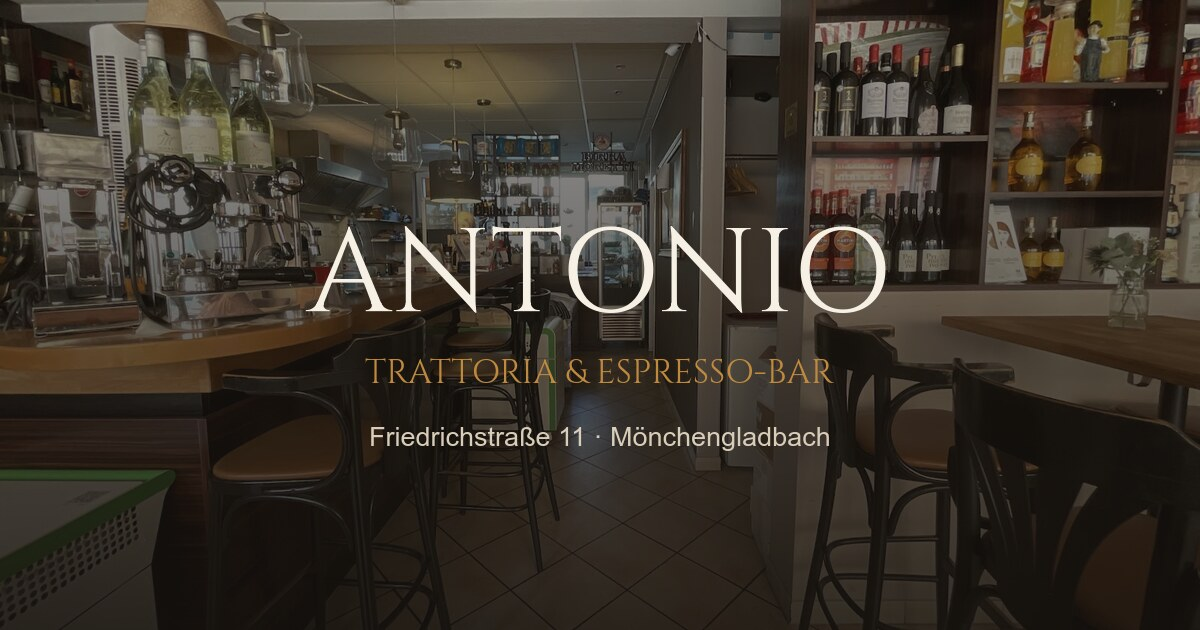
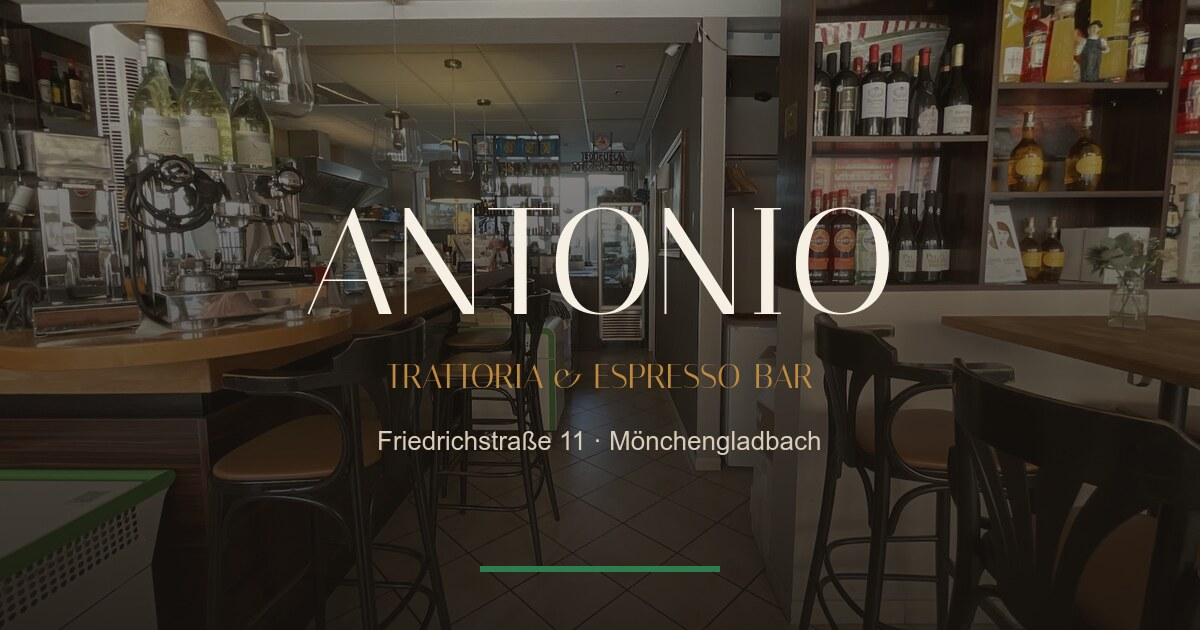
Italianita-Redesign: Italiana statt Cinzel, Verde als 2. Akzent, Tricolore-Details (Feedback Suat)

diff --git a/css/site.css b/css/site.css
@@ -1,10 +1,10 @@
 /* ANTONIO - Trattoria & Espresso-Bar, Mönchengladbach. Redesign-Entwurf.
-   Design-System: Tafel-Schwarzbraun + Marken-Rot + Gold auf hellem Tageslicht-Grund.
-   Schriften: Cinzel (Kapitalis, wie die Fassaden-Wortmarke) + Inter (Body). */
+   Design-System: Tafel-Schwarzbraun + Tricolore (Marken-Rot, Basilikum-Gruen, Weiss) + Gold.
+   Schriften: Italiana (elegante italienische Display-Antiqua, nur Schnitt 400) + Inter (Body). */
 
 @font-face{
-  font-family:'Cinzel';font-style:normal;font-weight:400 900;font-display:swap;
-  src:url('../font/cinzel.woff2') format('woff2');
+  font-family:'Italiana';font-style:normal;font-weight:400;font-display:swap;
+  src:url('../font/italiana.woff2') format('woff2');
 }
 @font-face{
   font-family:'Inter';font-style:normal;font-weight:100 900;font-display:swap;
@@ -15,17 +15,19 @@
   --tafel:#1e1b17;      /* Kreidetafel-Grund: Hero-Overlay, dunkle Sektionen, Footer */
   --tafel-2:#292420;    /* dunkle Karte / Tafel-Board */
   --tafel-3:#332d27;    /* dunkle Karte 2 */
-  --rosso:#a02c2c;      /* AKZENT Marken-Rot (Wortmarke an der Fassade) */
-  --rosso-d:#7e2222;    /* Akzent dunkler (Hover) */
+  --rosso:#a72a2a;      /* AKZENT Marken-Rot (Wortmarke an der Fassade) */
+  --rosso-d:#832020;    /* Akzent dunkler (Hover) */
+  --verde:#2e7d4f;      /* AKZENT 2 Basilikum-Gruen (Tafel-Ueberschrift, Serviette) */
+  --verde-d:#245f3d;    /* Gruen dunkler (Hover) */
   --oro:#c08a3e;        /* Gold der Fenster-Kapitalis: Sekundaerakzent auf dunkel */
   --oro-h:#d9a95c;      /* Gold hell (Hover auf dunkel) */
   --kreide:#ece5d4;     /* Kreide-Ton auf der Tafel */
-  --latte:#f1e9da;      /* Sektions-BG warm */
-  --milk:#faf7f0;       /* Grund-BG: helles Tageslicht */
-  --white:#fffefb;
-  --ink:#26211b;        /* Fliesstext auf hell */
-  --muted:#857a6a;      /* gedaempft */
-  --line:#e6ddcb;       /* Haarlinie */
+  --latte:#f3efe4;      /* Sektions-BG warm-hell */
+  --milk:#fcfbf6;       /* Grund-BG: helles Tageslicht, fast weiss */
+  --white:#ffffff;
+  --ink:#25211c;        /* Fliesstext auf hell */
+  --muted:#837a6d;      /* gedaempft */
+  --line:#e7e0d1;       /* Haarlinie */
   --wrap:1200px;
   --ease:cubic-bezier(.22,1,.36,1);
   --nav-h:76px;
@@ -48,7 +50,19 @@ a{color:var(--rosso)}
 .skip{position:absolute;left:-9999px;top:0;background:var(--tafel);color:#fff;padding:10px 16px;z-index:200}
 .skip:focus{left:0}
 
-h1,h2,h3{font-family:'Cinzel',serif;font-weight:600;letter-spacing:.02em;line-height:1.12;margin:0}
+/* Tricolore: schmaler Streifen am oberen Seitenrand + Akzent-Bar unter Sektionskoepfen */
+body::before{
+  content:"";position:fixed;top:0;left:0;right:0;height:3px;z-index:140;pointer-events:none;
+  background:linear-gradient(90deg,var(--verde) 0 33.4%,#f3efe0 33.4% 66.7%,var(--rosso) 66.7% 100%);
+}
+.tri{
+  display:block;width:46px;height:4px;margin-top:16px;
+  background:linear-gradient(90deg,var(--verde) 0 33.4%,#fff 33.4% 66.7%,var(--rosso) 66.7% 100%);
+  box-shadow:0 0 0 1px rgba(0,0,0,.06);
+}
+.shead.center .tri{margin-left:auto;margin-right:auto}
+
+h1,h2,h3{font-family:'Italiana',serif;font-weight:400;letter-spacing:.03em;line-height:1.12;margin:0}
 h1 em,h2 em,h3 em{font-style:normal;color:var(--rosso)}
 .on-dark h2 em,.on-dark h3 em{color:var(--oro)}
 p{margin:0 0 1em}
@@ -56,7 +70,7 @@ p{margin:0 0 1em}
 .muted{color:var(--muted)}
 .eyebrow{
   display:inline-block;font-family:'Inter';font-size:12.5px;font-weight:600;
-  letter-spacing:.22em;text-transform:uppercase;color:var(--rosso);
+  letter-spacing:.22em;text-transform:uppercase;color:var(--verde);
 }
 
 /* ---------- Buttons (radius 0, Ghost ueber dunklem Grund) ---------- */
@@ -87,7 +101,7 @@ p{margin:0 0 1em}
 .nav .wrap{display:flex;align-items:center;justify-content:space-between;width:100%}
 .brand{display:flex;align-items:baseline;gap:10px;text-decoration:none}
 .brand b{
-  font-family:'Cinzel',serif;font-weight:700;font-size:23px;letter-spacing:.10em;
+  font-family:'Italiana',serif;font-weight:400;font-size:25px;letter-spacing:.12em;
   color:#fff;transition:color .35s var(--ease);
 }
 .brand b em{font-style:normal;color:var(--oro)}
@@ -147,7 +161,7 @@ p{margin:0 0 1em}
 .mmenu__links{display:flex;flex-direction:column;gap:4px;margin:auto 0 26px}
 .mmenu__links a{
   display:flex;align-items:baseline;gap:16px;text-decoration:none;
-  font-family:'Cinzel',serif;font-weight:600;font-size:clamp(22px,5.6vw,27px);
+  font-family:'Italiana',serif;font-weight:400;font-size:clamp(23px,5.8vw,28px);
   letter-spacing:.06em;color:var(--kreide);padding:9px 0 9px 2px;
   border-bottom:1px solid rgba(236,229,212,.12);
   transition:color .3s var(--ease),padding-left .3s var(--ease);
@@ -163,7 +177,7 @@ p{margin:0 0 1em}
 .mmenu.open .mmenu__links a:nth-child(6){animation-delay:.31s}
 @keyframes mmin{to{opacity:1;transform:none}}
 .mmenu__links a:hover{color:#fff;padding-left:12px}
-.mmenu__links .n{font-family:'Inter';font-size:12px;font-weight:600;letter-spacing:.14em;color:var(--oro)}
+.mmenu__links .n{font-family:'Inter';font-size:12px;font-weight:600;letter-spacing:.14em;color:#6fbf8f}
 .mmenu__foot{display:flex;flex-direction:column;gap:14px;margin-bottom:auto}
 .mmenu__foot .btn{width:100%}
 .mmenu__contact{display:grid;grid-template-columns:1fr 1fr;gap:10px}
@@ -196,8 +210,8 @@ p{margin:0 0 1em}
 .hero__inner{color:#fff}
 .hero__eyebrow{color:var(--oro);letter-spacing:.26em}
 .hero h1{
-  font-size:clamp(46px,7.2vw,86px);font-weight:700;color:#fff;
-  letter-spacing:.06em;margin:18px 0 0;
+  font-size:clamp(48px,7.6vw,92px);font-weight:400;color:#fff;
+  letter-spacing:.07em;margin:16px 0 0;
 }
 .hero h1 em{font-style:normal;color:var(--oro)}
 .hero h1 .dot{color:var(--rosso)}
@@ -226,8 +240,8 @@ p{margin:0 0 1em}
 }
 .board__head{text-align:center;border-bottom:1px dashed rgba(236,229,212,.28);padding-bottom:16px;margin-bottom:16px}
 .board__head b{
-  font-family:'Cinzel',serif;font-weight:600;font-size:19px;letter-spacing:.22em;
-  color:var(--oro);display:block;
+  font-family:'Italiana',serif;font-weight:400;font-size:20px;letter-spacing:.22em;
+  color:#6fbf8f;display:block;
 }
 .board__head span{font-size:12px;letter-spacing:.18em;text-transform:uppercase;color:rgba(236,229,212,.55)}
 .board__row{
@@ -278,7 +292,7 @@ p{margin:0 0 1em}
   border:1px solid var(--line);background:var(--white);color:var(--ink);
   font-size:14px;font-weight:500;padding:8px 16px;letter-spacing:.02em;
 }
-.tag em{font-style:normal;color:var(--rosso);font-weight:600}
+.tag em{font-style:normal;color:var(--verde);font-weight:600}
 .section--dark .tag{background:none;border-color:rgba(236,229,212,.25);color:var(--kreide)}
 .section--dark .tag em{color:var(--oro)}
 
@@ -318,7 +332,7 @@ p{margin:0 0 1em}
   display:inline-flex;align-items:center;gap:16px;background:var(--white);
   border:1px solid var(--line);padding:16px 24px;box-shadow:0 14px 34px rgba(38,33,27,.10);
 }
-.rating__num{font-family:'Cinzel',serif;font-weight:700;font-size:38px;color:var(--tafel);line-height:1}
+.rating__num{font-family:'Italiana',serif;font-weight:400;font-size:38px;color:var(--tafel);line-height:1}
 .rating__stars{display:inline-flex;gap:2px;color:#e0a83c}
 .rating__stars svg{width:17px;height:17px}
 .rating__meta{display:block;font-size:13.5px;color:var(--muted);margin-top:3px}
@@ -414,7 +428,7 @@ p{margin:0 0 1em}
   background:rgba(23,19,16,.88);backdrop-filter:blur(10px);color:#fff;
   display:flex;align-items:center;justify-content:center;gap:16px;
   padding:12px 46px 12px 18px;font-size:13.5px;text-align:center;
-  border-top:1px solid var(--oro);transform:translateY(100%);
+  border-top:3px solid transparent;border-image:linear-gradient(90deg,var(--verde) 0 33.4%,#f3efe0 33.4% 66.7%,var(--rosso) 66.7% 100%) 1;transform:translateY(100%);
   animation:demoin .5s .9s var(--ease) forwards;
 }
 @keyframes demoin{to{transform:none}}
@@ -514,7 +528,7 @@ p{margin:0 0 1em}
 .ds__chip{height:74px;border:1px solid var(--line)}
 .ds__c .hex{font-weight:600;color:var(--tafel);letter-spacing:.04em}
 .ds__c .nm{color:var(--muted)}
-.ds__type .big{font-family:'Cinzel',serif;font-weight:700;font-size:clamp(30px,4vw,44px);letter-spacing:.08em;color:var(--tafel)}
+.ds__type .big{font-family:'Italiana',serif;font-weight:400;font-size:clamp(30px,4vw,44px);letter-spacing:.08em;color:var(--tafel)}
 .ds__type .big em{font-style:normal;color:var(--rosso)}
 .ds__type .cap{font-size:12.5px;font-weight:600;letter-spacing:.18em;text-transform:uppercase;color:var(--rosso);margin:14px 0 6px}
 .ds__type p{font-size:15px;color:var(--muted)}
@@ -533,7 +547,7 @@ p{margin:0 0 1em}
 
 .metrics{display:grid;grid-template-columns:repeat(3,1fr);gap:22px;margin:34px 0}
 .metric{background:var(--white);border:1px solid var(--line);padding:26px;text-align:center}
-.metric .big{font-family:'Cinzel',serif;font-weight:700;font-size:clamp(22px,2.6vw,30px);color:var(--rosso)}
+.metric .big{font-family:'Italiana',serif;font-weight:400;font-size:clamp(22px,2.6vw,30px);color:var(--rosso)}
 .metric .lbl{font-size:14px;color:var(--muted);margin-top:8px}
 .why{display:grid;grid-template-columns:repeat(3,1fr);gap:22px}
 .why--four{grid-template-columns:1fr 1fr}
@@ -583,6 +597,7 @@ p{margin:0 0 1em}
 }
 @media(max-width:700px){
   body{font-size:16px}
+  .brand .brand__sub{display:none}
   .section{padding:56px 0}
   .br-mob{display:inline}
   .hero{padding-top:calc(var(--nav-h) + 18px);padding-bottom:40px}

diff --git a/index.html b/index.html
@@ -22,7 +22,7 @@
 <link rel="apple-touch-icon" href="media/favicon-180.png">
 <link rel="preload" as="image" href="media/hero.webp" media="(min-width:701px)">
 <link rel="preload" as="image" href="media/hero-mob.webp" media="(max-width:700px)">
-<link rel="stylesheet" href="css/site.css?v=1">
+<link rel="stylesheet" href="css/site.css?v=2">
 <script type="application/ld+json">
 {"@context":"https://schema.org","@type":"Restaurant","name":"Antonio","alternateName":"Antonios Espresso Bar","@id":"https://suak0903.github.io/antonios/","url":"https://suak0903.github.io/antonios/","image":"https://suak0903.github.io/antonios/media/og.jpg","telephone":"+49 2161 207766","priceRange":"10-20 €","servesCuisine":["Italienisch","Espresso-Bar","Weinstube"],"address":{"@type":"PostalAddress","streetAddress":"Friedrichstraße 11","postalCode":"41061","addressLocality":"Mönchengladbach","addressRegion":"NRW","addressCountry":"DE"},"openingHoursSpecification":[{"@type":"OpeningHoursSpecification","dayOfWeek":["Tuesday","Wednesday","Thursday","Friday"],"opens":"11:00","closes":"21:00"},{"@type":"OpeningHoursSpecification","dayOfWeek":"Saturday","opens":"11:00","closes":"19:00"}],"aggregateRating":{"@type":"AggregateRating","ratingValue":"4.6","reviewCount":"194"},"paymentAccepted":"Cash","sameAs":["https://www.facebook.com/p/Antonios-Espresso-Bar-100046776345160/"]}
 </script>
@@ -112,7 +112,8 @@
       <div class="split reveal">
         <div>
           <span class="eyebrow">Benvenuti</span>
-          <h2 style="font-size:clamp(28px,4.4vw,44px);margin:14px 0 18px">Little Italy in der <em>Friedrichstraße</em>.</h2>
+          <h2 style="font-size:clamp(28px,4.4vw,44px);margin:14px 0 0">Little Italy in der <em>Friedrichstraße</em>.</h2>
+          <span class="tri" style="margin-bottom:18px"></span>
           <p class="lead">Ein lebensfrohes Buongiorno zur Begrüßung, dann duftet es nach Espresso und frischer Pasta. Beim Antonio ist man kein zahlender Kunde, sondern zu Gast bei Freunden.</p>
           <p>Antonio kocht selbst, klassisch italienisch und immer frisch. Renzo und das Team sorgen dafür, dass kein Glas lange leer bleibt und kein Gast lange allein. Wer mag, lernt nebenbei noch Italienisch: Es steht auf der Serviette.</p>
           <p class="muted">Die Karte ist bewusst klein und steht auf der großen Tafel. Was drauf steht, wechselt. Dass es schmeckt, nicht.</p>
@@ -135,7 +136,8 @@
       <div class="esp reveal">
         <div>
           <span class="eyebrow" style="color:var(--oro)">Die Espresso-Bar</span>
-          <h2 style="font-size:clamp(28px,4.4vw,44px);margin:14px 0 18px">Erst ein <em>Espresso</em>, dann sehen wir weiter.</h2>
+          <h2 style="font-size:clamp(28px,4.4vw,44px);margin:14px 0 0">Erst ein <em>Espresso</em>, dann sehen wir weiter.</h2>
+          <span class="tri" style="margin-bottom:18px"></span>
           <p style="color:rgba(255,255,255,.8)">Vormittags ein Cappuccino mit Herz, mittags Pasta von der Tafel, nachmittags ein Buch bei einer Tasse Kaffee, abends ein Glas Wein. Die Bar ist das Herz des Lokals, und die Maschine steht selten still.</p>
           <blockquote class="esp__quote">
             &bdquo;Die beste Espresso-Bar in NRW! Und man kann auch noch gut essen.&ldquo;
@@ -157,6 +159,7 @@
       <div class="shead">
         <span class="eyebrow">Aus der Küche</span>
         <h2>Die Karte steht auf der <em>Tafel</em>.</h2>
+        <span class="tri"></span>
         <p>Klassisch italienisch, frisch gekocht, übersichtlich. Was heute gilt, schreibt Antonio mit Kreide an. Ein Auszug:</p>
       </div>
       <div class="menu reveal">
@@ -188,6 +191,7 @@
       <div class="shead center">
         <span class="eyebrow">Stimmen</span>
         <h2>Gäste über das<br class="br-mob"> <em>Antonio</em>.</h2>
+        <span class="tri"></span>
         <div style="display:flex;justify-content:center;margin-top:26px">
           <span class="rating">
             <span class="rating__num">4,6</span>
@@ -243,6 +247,7 @@
       <div class="shead">
         <span class="eyebrow">Galerie</span>
         <h2>Ein Besuch in <em>Bildern</em>.</h2>
+        <span class="tri"></span>
         <p>Aus der Küche, von der Bar und von der Terrasse.</p>
       </div>
       <!-- Alle brauchbaren Fotos aus dem Google-Profil; Nahaufnahmen von Gästen bewusst ausgelassen. -->
@@ -293,6 +298,7 @@
       <div class="cta">
         <span class="eyebrow">Kontakt &amp; Reservierung</span>
         <h2>A presto, <em>bis gleich</em>.</h2>
+        <span class="tri" style="margin-left:auto;margin-right:auto"></span>
         <p>Ein kurzer Anruf genügt. Das Lokal ist klein, die Terrasse beliebt, ein Tisch vorab lohnt sich.</p>
         <div class="cta__row">
           <a class="btn btn--primary" href="tel:+492161207766">Anrufen &amp; reservieren
@@ -360,6 +366,6 @@
   <button class="lb__nav next" id="lbNext" aria-label="Nächstes Bild">&#8250;</button>
 </div>
 
-<script src="js/site.js?v=1" defer></script>
+<script src="js/site.js?v=2" defer></script>
 </body>
 </html>

diff --git a/hinweise.html b/hinweise.html
@@ -8,7 +8,7 @@
 <meta name="description" content="Website-Entwurf für das Antonio in Mönchengladbach: was eine eigene Website gegenüber Google-Profil und Fremdportalen besser macht, wie er entstand und warum sich die Zusammenarbeit lohnt.">
 <link rel="icon" href="media/favicon-32.png" sizes="32x32">
 <link rel="apple-touch-icon" href="media/favicon-180.png">
-<link rel="stylesheet" href="css/site.css?v=1">
+<link rel="stylesheet" href="css/site.css?v=2">
 </head>
 <body class="sub">
 <a href="#main" class="skip">Zum Inhalt springen</a>
@@ -139,6 +139,7 @@
     <div class="shead reveal">
       <div class="eyebrow">Das Design</div>
       <h2>Farben und Schrift.</h2>
+      <span class="tri"></span>
       <p>Alles kommt vom Lokal selbst: das Rot und Gold der Fassaden-Schrift, das Dunkel der Kreidetafel, das helle Tageslicht des Gastraums. Keine Baukasten-Optik, sondern die eigene Marke.</p>
     </div>
     <div class="ds reveal">
@@ -166,6 +167,7 @@
     <div class="shead reveal">
       <div class="eyebrow">Der Vergleich</div>
       <h2>Was der Entwurf anders macht.</h2>
+      <span class="tri"></span>
       <p>Nebeneinander gestellt: die heutige Sichtbarkeit über Google-Profil und Fremdportale und dieser Entwurf. Fair bewertet.</p>
     </div>
     <div class="ctable-wrap">
@@ -213,6 +215,7 @@
     <div class="shead reveal">
       <div class="eyebrow">Warum gerade ich</div>
       <h2>Der richtige Partner für so ein Projekt.</h2>
+      <span class="tri"></span>
       <p>Weder anonyme Großagentur mit langen Wegen noch Gelegenheitsanbieter, sondern genau der Sweet Spot dazwischen.</p>
     </div>
     <div class="why why--four">
@@ -245,6 +248,7 @@
     <div class="shead reveal">
       <div class="eyebrow">Referenzen</div>
       <h2>Kein Einzelfall.</h2>
+      <span class="tri"></span>
       <p>Von der eigenen Website über ein Pilates-Studio, ein Hightech-Unternehmen und einen Handwerksbetrieb bis zum Steuerberater, Karriere-Coach, Café und Restaurant, alle mit KI-Unterstützung gebaut.</p>
     </div>
     <div class="refs">
@@ -358,6 +362,6 @@
   <svg viewBox="0 0 24 24" fill="none" stroke="currentColor" stroke-width="2"><path d="M12 19V5M6 11l6-6 6 6"/></svg>
 </button>
 
-<script src="js/site.js?v=1" defer></script>
+<script src="js/site.js?v=2" defer></script>
 </body>
 </html>

diff --git a/datenschutz.html b/datenschutz.html
@@ -8,7 +8,7 @@
 <meta name="description" content="Datenschutzerklärung des Website-Entwurfs für das Antonio in Mönchengladbach.">
 <link rel="icon" href="media/favicon-32.png" sizes="32x32">
 <link rel="apple-touch-icon" href="media/favicon-180.png">
-<link rel="stylesheet" href="css/site.css?v=1">
+<link rel="stylesheet" href="css/site.css?v=2">
 </head>
 <body class="sub">
 <a href="#main" class="skip">Zum Inhalt springen</a>
@@ -107,6 +107,6 @@
 </footer>
 <!-- /#chrome:footer -->
 
-<script src="js/site.js?v=1" defer></script>
+<script src="js/site.js?v=2" defer></script>
 </body>
 </html>

diff --git a/impressum.html b/impressum.html
@@ -8,7 +8,7 @@
 <meta name="description" content="Impressum des Website-Entwurfs für das Antonio in Mönchengladbach.">
 <link rel="icon" href="media/favicon-32.png" sizes="32x32">
 <link rel="apple-touch-icon" href="media/favicon-180.png">
-<link rel="stylesheet" href="css/site.css?v=1">
+<link rel="stylesheet" href="css/site.css?v=2">
 </head>
 <body class="sub">
 <a href="#main" class="skip">Zum Inhalt springen</a>
@@ -107,6 +107,6 @@
 </footer>
 <!-- /#chrome:footer -->
 
-<script src="js/site.js?v=1" defer></script>
+<script src="js/site.js?v=2" defer></script>
 </body>
 </html>

diff --git a/speisekarte.html b/speisekarte.html
@@ -8,7 +8,7 @@
 <meta name="description" content="Die Karte des Antonio in Mönchengladbach: klassisch italienische Pasta, Antipasti und Dolce, dazu Aperitivo und Wein. Was heute gilt, steht auf der Tafel.">
 <link rel="icon" href="media/favicon-32.png" sizes="32x32">
 <link rel="apple-touch-icon" href="media/favicon-180.png">
-<link rel="stylesheet" href="css/site.css?v=1">
+<link rel="stylesheet" href="css/site.css?v=2">
 </head>
 <body class="sub">
 <a href="#main" class="skip">Zum Inhalt springen</a>
@@ -144,6 +144,6 @@
 </footer>
 <!-- /#chrome:footer -->
 
-<script src="js/site.js?v=1" defer></script>
+<script src="js/site.js?v=2" defer></script>
 </body>
 </html>

diff --git a/404.html b/404.html
@@ -6,7 +6,7 @@
 <meta name="robots" content="noindex, nofollow">
 <title>Seite nicht gefunden | Antonio</title>
 <link rel="icon" href="/antonios/media/favicon-32.png" sizes="32x32">
-<link rel="stylesheet" href="/antonios/css/site.css?v=1">
+<link rel="stylesheet" href="/antonios/css/site.css?v=2">
 </head>
 <body class="sub">
 <section class="subhero" style="min-height:70svh;display:flex;align-items:center">